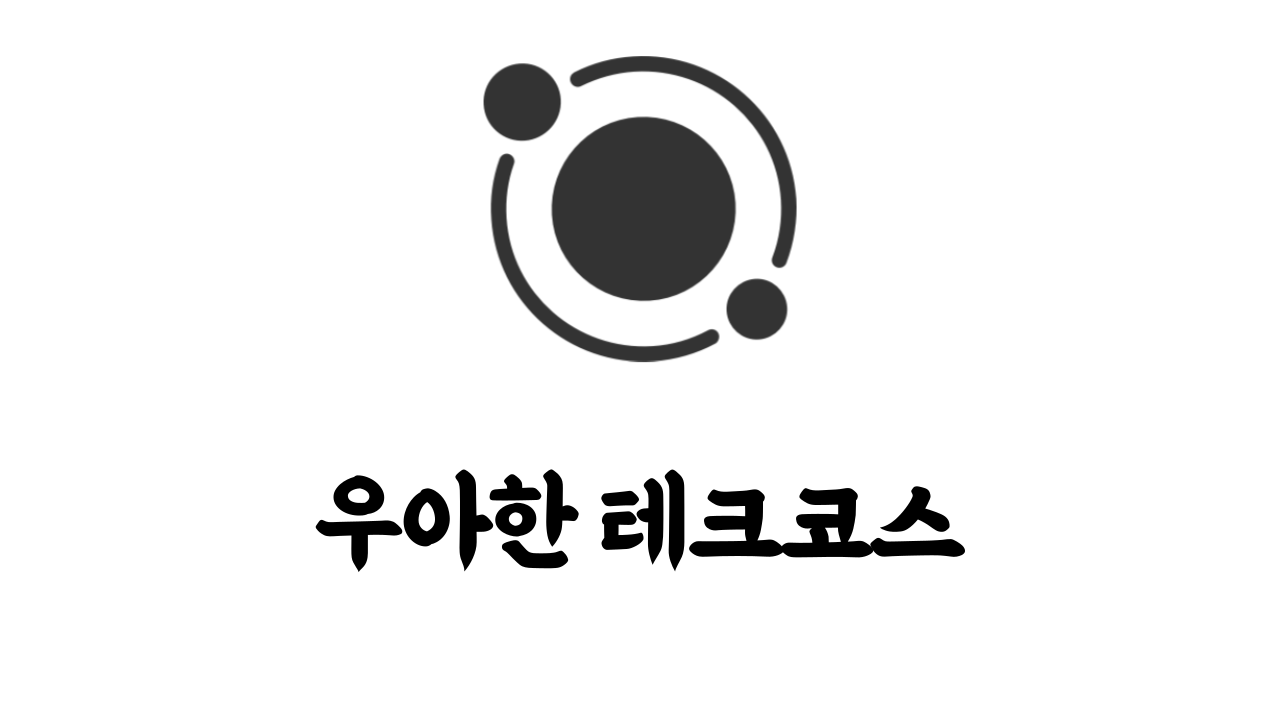
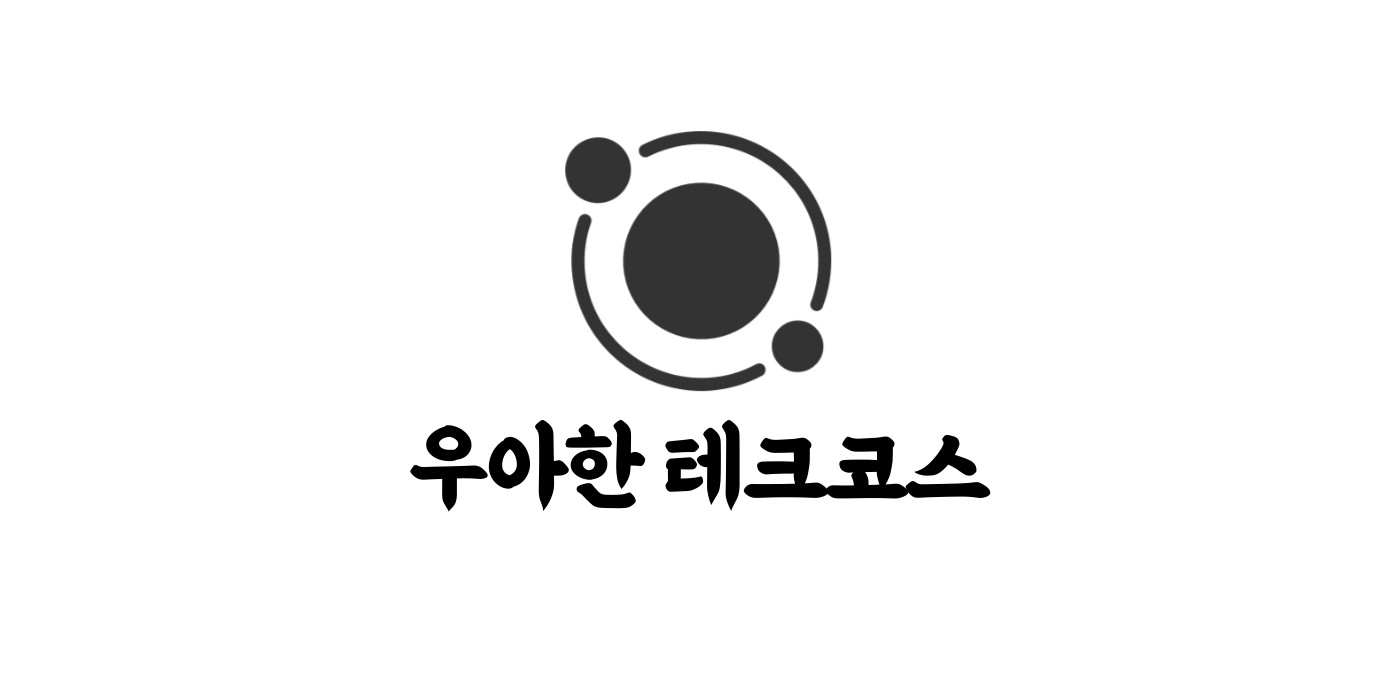
fix: tags 통합화, thunbnail 변경

Changed region(s): [[0.375, 0.06, 0.625, 0.57], [0.25, 0.6, 0.75, 0.81]]

diff --git a/src/gatsby-types.d.ts b/src/gatsby-types.d.ts
@@ -1704,17 +1704,13 @@ type Query_mdxArgs = {
 type Query_siteArgs = {
   buildTime: InputMaybe<DateQueryOperatorInput>;
   children: InputMaybe<NodeFilterListInput>;
-  graphqlTypegen: InputMaybe<SiteGraphqlTypegenFilterInput>;
+  graphqlTypegen: InputMaybe<BooleanQueryOperatorInput>;
   host: InputMaybe<StringQueryOperatorInput>;
   id: InputMaybe<StringQueryOperatorInput>;
   internal: InputMaybe<InternalFilterInput>;
-  jsxRuntime: InputMaybe<StringQueryOperatorInput>;
   parent: InputMaybe<NodeFilterInput>;
-  pathPrefix: InputMaybe<StringQueryOperatorInput>;
-  polyfill: InputMaybe<BooleanQueryOperatorInput>;
   port: InputMaybe<IntQueryOperatorInput>;
   siteMetadata: InputMaybe<SiteSiteMetadataFilterInput>;
-  trailingSlash: InputMaybe<StringQueryOperatorInput>;
 };
 
 
@@ -1776,17 +1772,13 @@ type Query_sitePluginArgs = {
 type Site = Node & {
   readonly buildTime: Maybe<Scalars['Date']>;
   readonly children: ReadonlyArray<Node>;
-  readonly graphqlTypegen: Maybe<SiteGraphqlTypegen>;
+  readonly graphqlTypegen: Maybe<Scalars['Boolean']>;
   readonly host: Maybe<Scalars['String']>;
   readonly id: Scalars['ID'];
   readonly internal: Internal;
-  readonly jsxRuntime: Maybe<Scalars['String']>;
   readonly parent: Maybe<Node>;
-  readonly pathPrefix: Maybe<Scalars['String']>;
-  readonly polyfill: Maybe<Scalars['Boolean']>;
   readonly port: Maybe<Scalars['Int']>;
   readonly siteMetadata: Maybe<SiteSiteMetadata>;
-  readonly trailingSlash: Maybe<Scalars['String']>;
 };
 
 
@@ -1971,33 +1963,25 @@ type SiteEdge = {
 type SiteFieldSelector = {
   readonly buildTime: InputMaybe<FieldSelectorEnum>;
   readonly children: InputMaybe<NodeFieldSelector>;
-  readonly graphqlTypegen: InputMaybe<SiteGraphqlTypegenFieldSelector>;
+  readonly graphqlTypegen: InputMaybe<FieldSelectorEnum>;
   readonly host: InputMaybe<FieldSelectorEnum>;
   readonly id: InputMaybe<FieldSelectorEnum>;
   readonly internal: InputMaybe<InternalFieldSelector>;
-  readonly jsxRuntime: InputMaybe<FieldSelectorEnum>;
   readonly parent: InputMaybe<NodeFieldSelector>;
-  readonly pathPrefix: InputMaybe<FieldSelectorEnum>;
-  readonly polyfill: InputMaybe<FieldSelectorEnum>;
   readonly port: InputMaybe<FieldSelectorEnum>;
   readonly siteMetadata: InputMaybe<SiteSiteMetadataFieldSelector>;
-  readonly trailingSlash: InputMaybe<FieldSelectorEnum>;
 };
 
 type SiteFilterInput = {
   readonly buildTime: InputMaybe<DateQueryOperatorInput>;
   readonly children: InputMaybe<NodeFilterListInput>;
-  readonly graphqlTypegen: InputMaybe<SiteGraphqlTypegenFilterInput>;
+  readonly graphqlTypegen: InputMaybe<BooleanQueryOperatorInput>;
   readonly host: InputMaybe<StringQueryOperatorInput>;
   readonly id: InputMaybe<StringQueryOperatorInput>;
   readonly internal: InputMaybe<InternalFilterInput>;
-  readonly jsxRuntime: InputMaybe<StringQueryOperatorInput>;
   readonly parent: InputMaybe<NodeFilterInput>;
-  readonly pathPrefix: InputMaybe<StringQueryOperatorInput>;
-  readonly polyfill: InputMaybe<BooleanQueryOperatorInput>;
   readonly port: InputMaybe<IntQueryOperatorInput>;
   readonly siteMetadata: InputMaybe<SiteSiteMetadataFilterInput>;
-  readonly trailingSlash: InputMaybe<StringQueryOperatorInput>;
 };
 
 type SiteFunction = Node & {
@@ -2140,30 +2124,6 @@ type SiteFunctionSortInput = {
   readonly parent: InputMaybe<NodeSortInput>;
   readonly pluginName: InputMaybe<SortOrderEnum>;
   readonly relativeCompiledFilePath: InputMaybe<SortOrderEnum>;
-};
-
-type SiteGraphqlTypegen = {
-  readonly documentSearchPaths: Maybe<ReadonlyArray<Maybe<Scalars['String']>>>;
-  readonly generateOnBuild: Maybe<Scalars['Boolean']>;
-  readonly typesOutputPath: Maybe<Scalars['String']>;
-};
-
-type SiteGraphqlTypegenFieldSelector = {
-  readonly documentSearchPaths: InputMaybe<FieldSelectorEnum>;
-  readonly generateOnBuild: InputMaybe<FieldSelectorEnum>;
-  readonly typesOutputPath: InputMaybe<FieldSelectorEnum>;
-};
-
-type SiteGraphqlTypegenFilterInput = {
-  readonly documentSearchPaths: InputMaybe<StringQueryOperatorInput>;
-  readonly generateOnBuild: InputMaybe<BooleanQueryOperatorInput>;
-  readonly typesOutputPath: InputMaybe<StringQueryOperatorInput>;
-};
-
-type SiteGraphqlTypegenSortInput = {
-  readonly documentSearchPaths: InputMaybe<SortOrderEnum>;
-  readonly generateOnBuild: InputMaybe<SortOrderEnum>;
-  readonly typesOutputPath: InputMaybe<SortOrderEnum>;
 };
 
 type SiteGroupConnection = {
@@ -2526,17 +2486,13 @@ type SiteSiteMetadataSortInput = {
 type SiteSortInput = {
   readonly buildTime: InputMaybe<SortOrderEnum>;
   readonly children: InputMaybe<NodeSortInput>;
-  readonly graphqlTypegen: InputMaybe<SiteGraphqlTypegenSortInput>;
+  readonly graphqlTypegen: InputMaybe<SortOrderEnum>;
   readonly host: InputMaybe<SortOrderEnum>;
   readonly id: InputMaybe<SortOrderEnum>;
   readonly internal: InputMaybe<InternalSortInput>;
-  readonly jsxRuntime: InputMaybe<SortOrderEnum>;
   readonly parent: InputMaybe<NodeSortInput>;
-  readonly pathPrefix: InputMaybe<SortOrderEnum>;
-  readonly polyfill: InputMaybe<SortOrderEnum>;
   readonly port: InputMaybe<SortOrderEnum>;
   readonly siteMetadata: InputMaybe<SiteSiteMetadataSortInput>;
-  readonly trailingSlash: InputMaybe<SortOrderEnum>;
 };
 
 type SortOrderEnum =

diff --git a/src/__generated__/gatsby-types.d.ts b/src/__generated__/gatsby-types.d.ts
@@ -2582,6 +2582,11 @@ type PostQueryVariables = Exact<{
 
 type PostQuery = { readonly mdx: { readonly id: string, readonly tableOfContents: any | null, readonly frontmatter: { readonly createdAt: string | null, readonly description: string | null, readonly slug: string | null, readonly tags: ReadonlyArray<string | null> | null, readonly title: string | null, readonly updatedAt: string | null, readonly thumbnail: { readonly childImageSharp: { readonly gatsbyImageData: import('gatsby-plugin-image').IGatsbyImageData } | null } | null } | null } | null };
 
+type listsQueryVariables = Exact<{ [key: string]: never; }>;
+
+
+type listsQuery = { readonly allMdx: { readonly group: ReadonlyArray<{ readonly fieldValue: string | null }> } };
+
 type profileQueryQueryVariables = Exact<{ [key: string]: never; }>;
 
 
